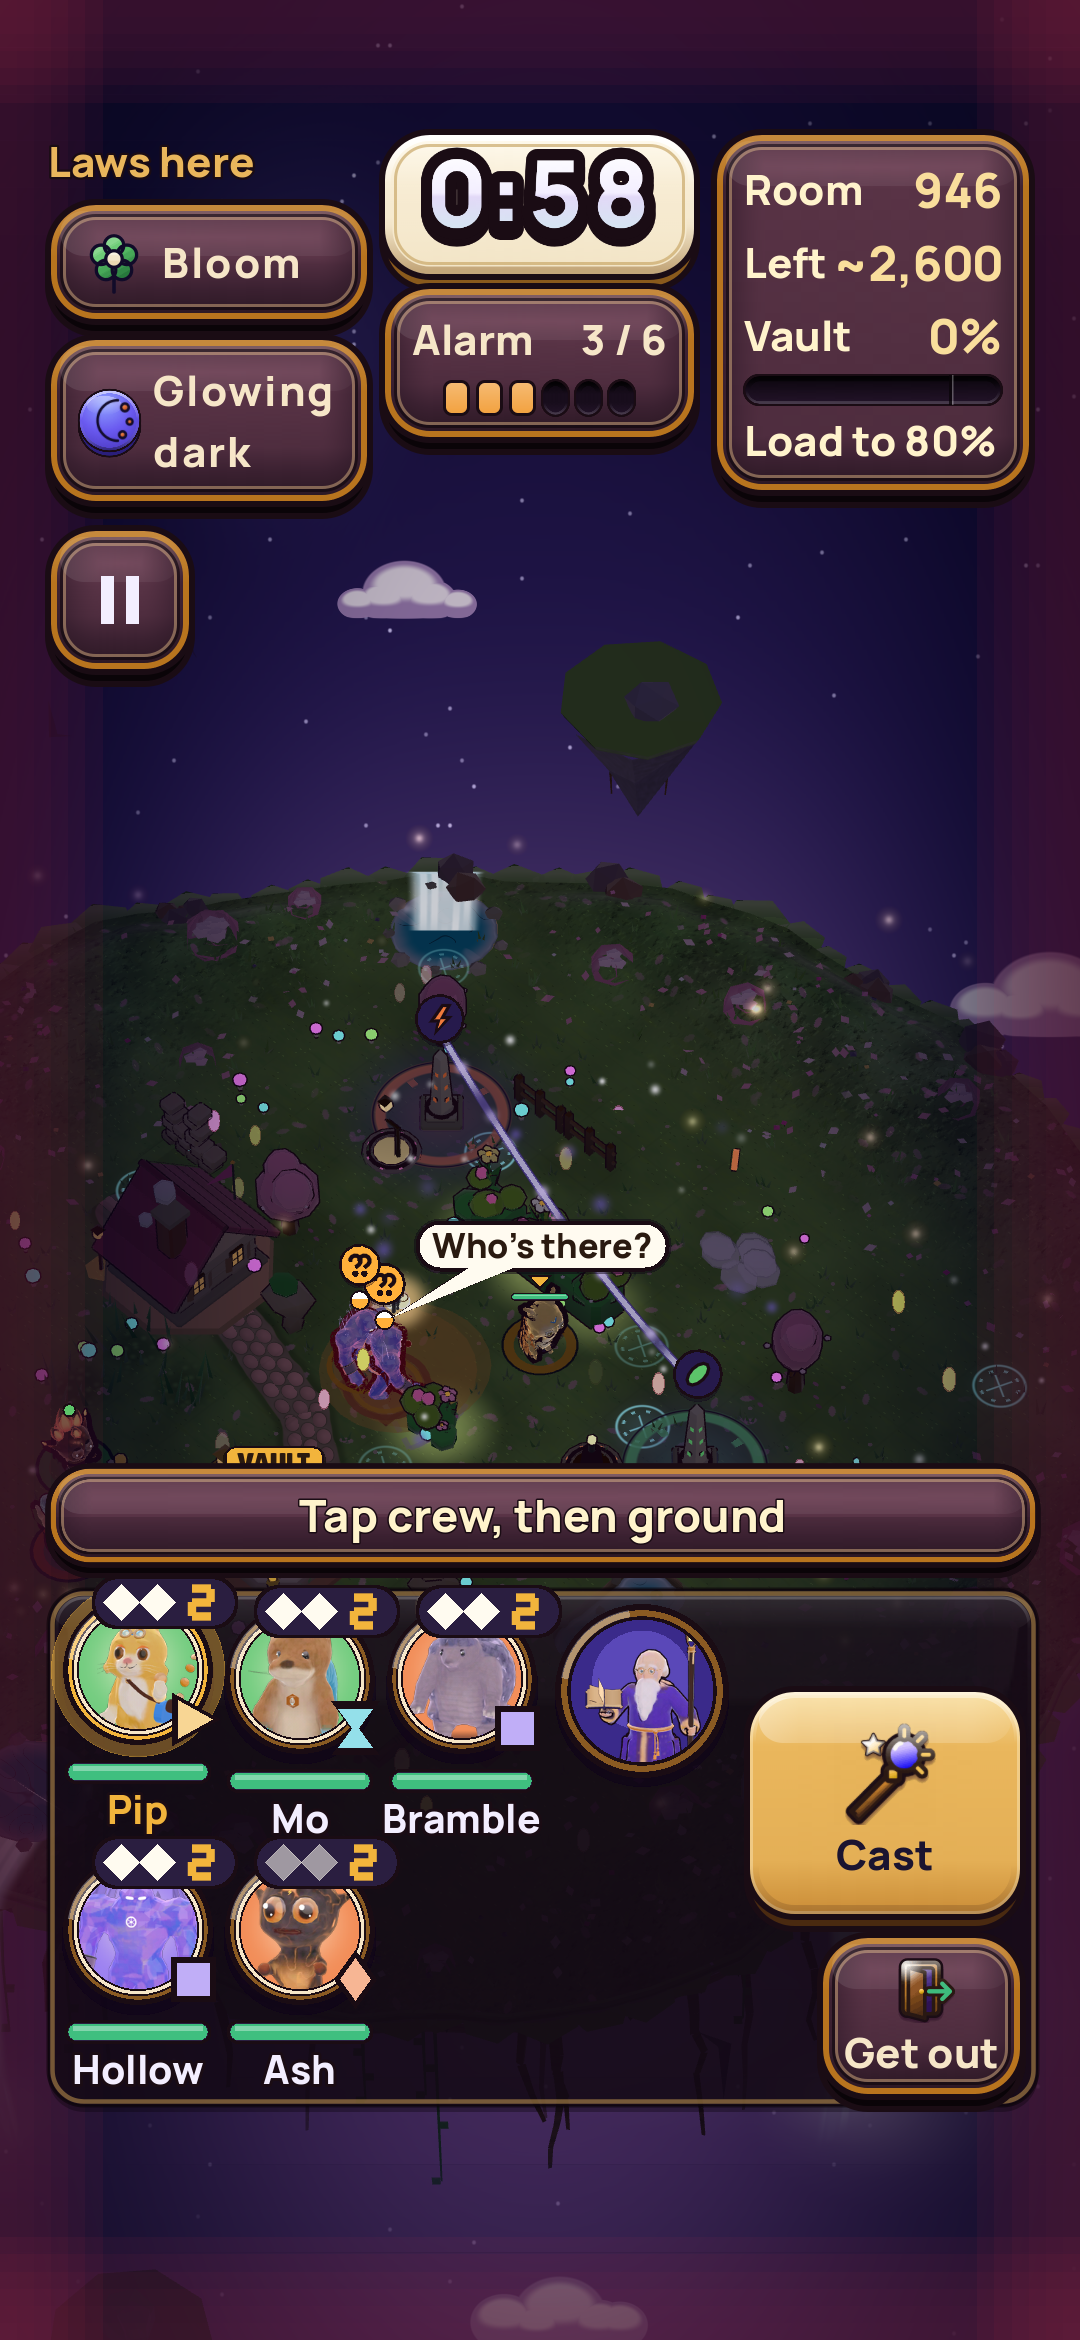
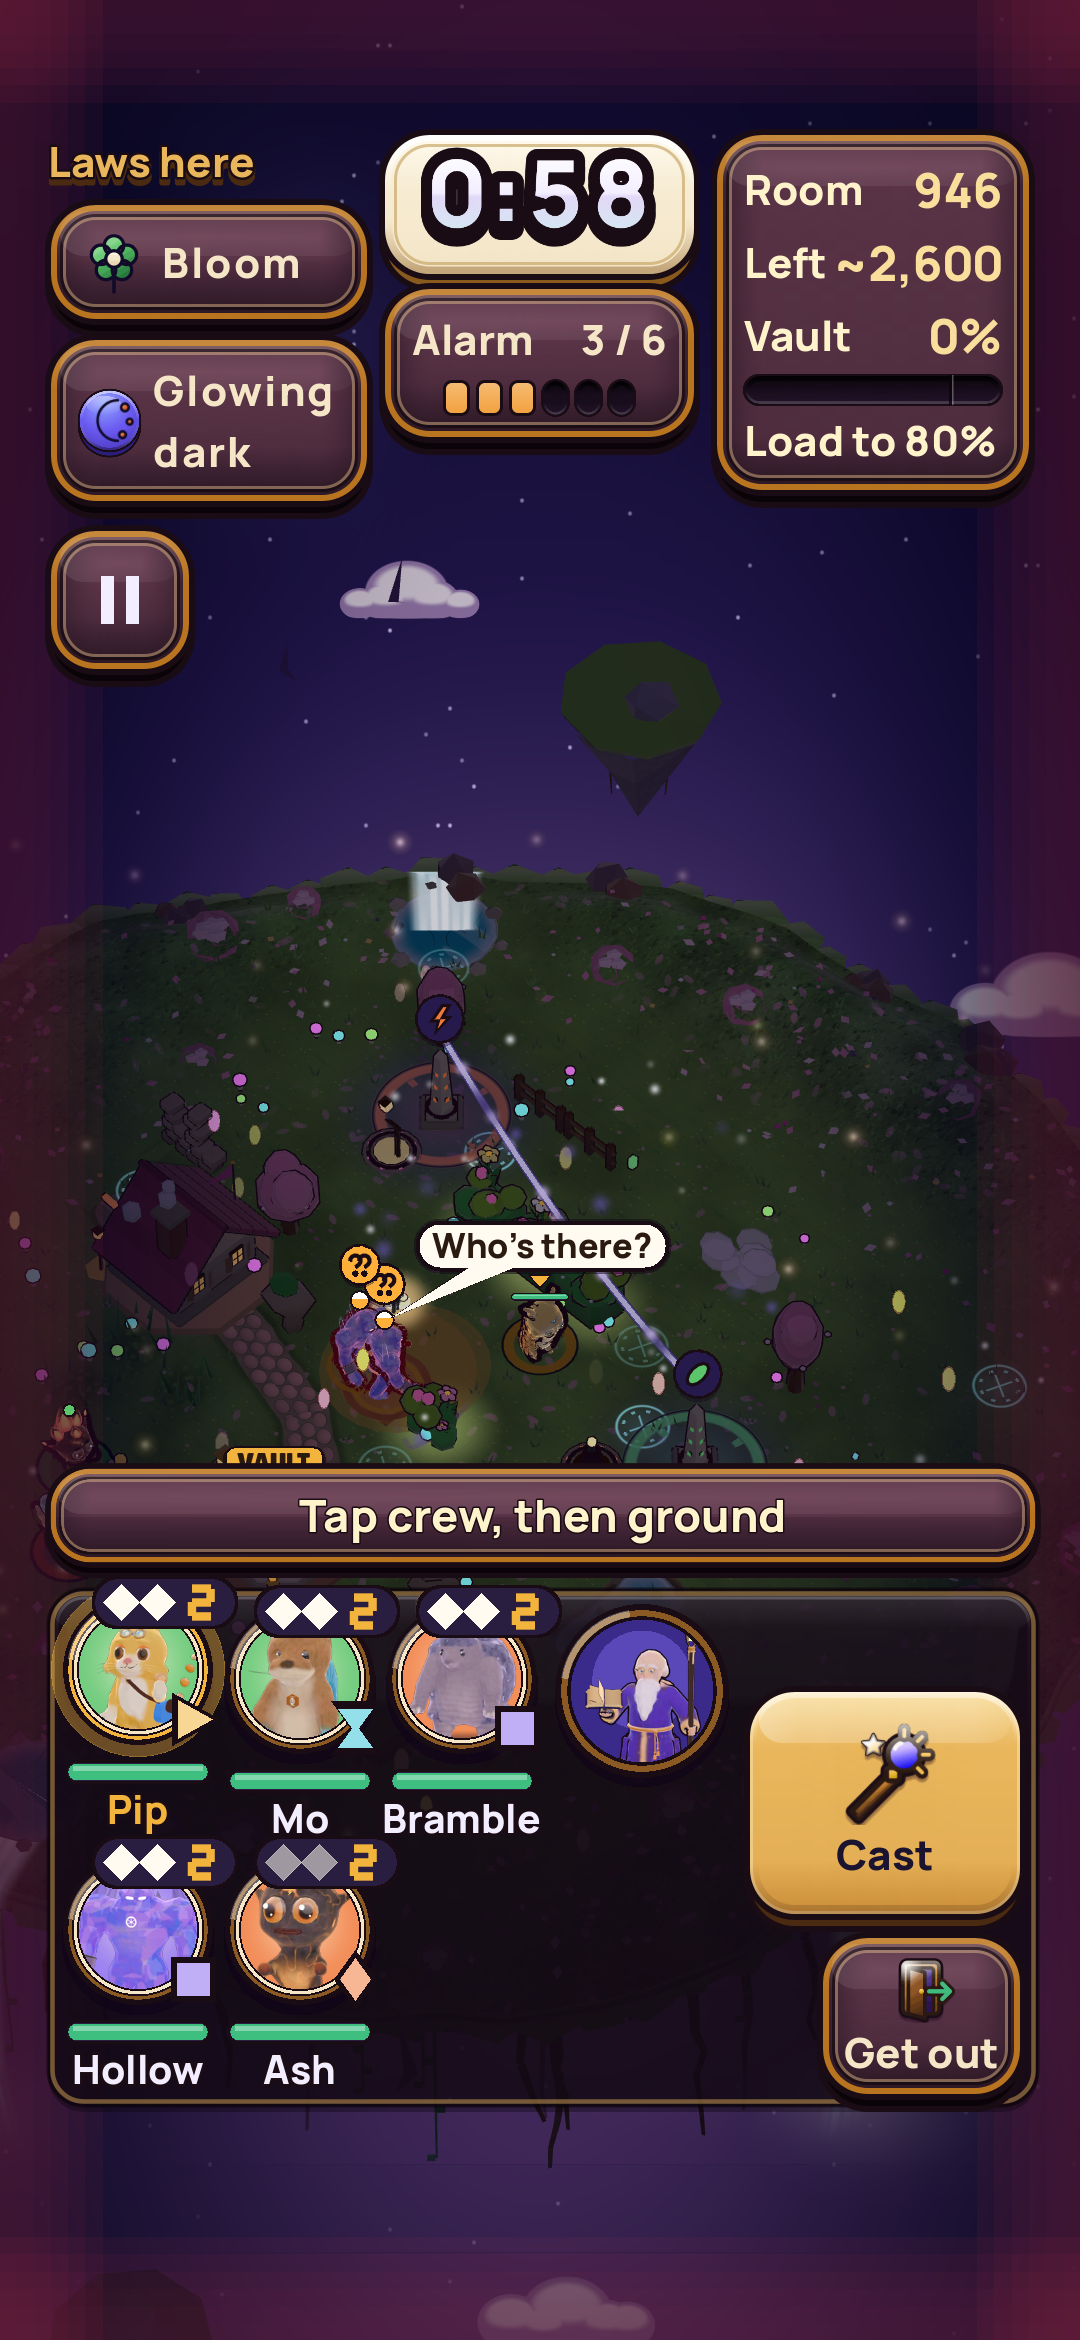
P1-K1-numerals-on: the heist's stills with the header's display stroke; the handoff
The three stills are rebaked at 100% text with 'Laws here' in its ink
outline and gold drop (AD-R14). The handoff names the raised records
(K1-R18, M9), K1-R17's two granted changes and the FIT run at ca66fe67.

Claude-Session: https://claude.ai/code/session_01SNkKxqEuMj3TF1SQMhjHgP

diff --git a/docs/progress/K1.md b/docs/progress/K1.md
@@ -28,7 +28,7 @@
 | P1-K1-numerals-on: the numerals' switch on (`"numerals": true`), the screens within their draw-call records, the gate's Display type note on pilot-3 | 1 | Working (10bbf1d9) | ui_kit_tests 21 of 21 pass (`tests/shots/ui_kit_only.gd`); `screen_heist.gd` FIT=1 at 200% text: fit ok in en and pt_BR, sneak and alarm, normal and high contrast (8 of 8); gdlint passes; guard.sh OK, every record unchanged; pre-check FAIL at f760dedf, 403 of 404 (K1-R17) |
 
 ## Handoff
-- Last verified commit: 10bbf1d9 (P1-K1-numerals-on; ui_kit_tests 21 of 21 pass; `screen_heist.gd` FIT=1 8 of 8 fit ok; guard.sh and the pre-check below).
+- Last verified commit: the head this handoff is committed at (P1-K1-numerals-on; its sha, `bash tools/ui_bake/guard.sh` and the pre-check are in `docs/progress/status/K1.json`, `precheck` and `gate_request`). Before it: pre-check PASS at ca66fe67 (2026-11-12T07:42:13Z, All checks passed), K1-R17's two changes with the drop; ui_kit_tests 21 of 21 pass.
 - The change (done_when 1): `client/ui/kit_families.json` gains the one line `"numerals": true`, after `"spinner": true`. No family or skin changes.
 - **S1-R11, answered:** the switch is on. `KitNumerals.make` now draws the baked `num_<finish>_<glyph>` pieces wherever every glyph's piece is in the atlas, and the heist's timer (`heist_hud.gd` `_build_clock`, on `KitHud.clock_large`) draws the `num_timer` figures, `num_timer_red` when late. Board 1's objection A can be judged on the stills below.
 - **K1-R11, answered:** its condition is met (P1-AIA-kit-3's numerals passed Display type and Colour roles, 3 of 3), so the switch is added as K1-R11's answer said. `docs/art/ui-quality/kit-spec.md` section 6.7 says the `numerals` switch is on since 12 November 2026; section 9 has the dated line.
@@ -36,15 +36,15 @@
   - `docs/art/shots/ui-bake/heist-numerals-sneak-100.png` (2:25)
   - `docs/art/shots/ui-bake/heist-numerals-alarm-100.png` (0:58, red)
   - `docs/art/shots/ui-bake/heist-numerals-alarm-hc-100.png` (high contrast)
-- The same verdict's note on "Laws here" (its ink outline) is S1's screen, not a kit file: `UI.world_words` (P1-K1-heist-kit) gives words on the world an outline that counts.
+- The same verdict's note on "Laws here" (its ink outline), AD-R14, **answered** under K1-R17's grant (M8): `heist_hud.gd` draws the 'Laws here' / 'Leis aqui' header with the kit's display stroke (kit-spec.md section 2.2, T2), the ink outline at 3.5 points (`UI.world_words` gave 3) and a hard `gold_drop` drop 2 points under it with its own 3.5-point outline, as `KitNav.logo` wears them. The ink alone is lost on the night sky at a still's size; with the drop the word stands off it. The three stills above are rebaked with it.
 - Tests (not loosened): `client/tests/ui_kit_tests.gd` holds the shipped switch, `BESIDE_ON := ["numerals"]` among the switches that must be on; the numerals test switches it off for its run, so the live-text path is tested as well as the baked one.
-- FIT (done_when 3), `client/tests/shots/screen_heist.gd` with FIT=1 TEXT=200 MANIFEST=1 ESTIMATE=2600 LAWS=bloom,glowing_dark: fit ok in all 8 cases (en and pt_BR, sneak and alarm, normal and high contrast); 138 draw calls at sneak, 141 at alarm (limit 150).
+- FIT (done_when 4), at 10bbf1d9, `client/tests/shots/screen_heist.gd` with FIT=1 TEXT=200 MANIFEST=1 ESTIMATE=2600 LAWS=bloom,glowing_dark: fit ok in all 8 cases (en and pt_BR, sneak and alarm, normal and high contrast); 138 draw calls at sneak, 141 at alarm (limit 150). Again at ca66fe67 (the header's drop, the clock's words hidden), FIT=1 TEXT=200 MANIFEST=1: fit ok in all 8 cases, 134 draw calls at sneak, 135 at alarm.
 - Found, not this task's (S1's heist layout): on the bare island (no MANIFEST), pt_BR at 200% text fails FIT, "Loot [P: (48,625), S: (984,506)] over the tray [P: (48,960), S: (984,1146)]". It fails the same with the switch off, at S1's ready 0d142dd0 and at a7a967bb, so the switch does not cause it. To reproduce: `MOMENT=sneak TEXT=200 LOCALE=pt_BR FIT=1 bash tools/render/shoot.sh client/tests/shots/screen_heist.gd out.png`. en and high contrast at 200% on the bare island pass (114 and 116 draw calls).
-- Draw-call records (done_when 2): only `heist_hud.gd` calls KitNumerals; no record moves. `bash tools/ui_bake/guard.sh` at 10bbf1d9: `ui guard: OK`, every still rebaked byte for byte, `check_screens: OK`, every screen equal to its recorded figure; heist 118/114/118 draw calls at 100%, 200% and high contrast (recorded 118/114/118, limit 150). A baked number is one canvas item in the art's layer, so it batches with the atlas and adds no call.
-- **Pre-check FAIL at f760dedf** (2026-11-12T06:10:25Z), 403 of 404, the one failure: `a11y_tests.gd` "every word reads against what is behind it": `"2:30" (…/Clock/Time in the kit's parchment) is 2.06:1 Lc 11 on #1a0c14, needs 4.5:1 Lc 60 at 26 points bold`, on heist_screen and replay_screen, normal and high contrast. The cause: with the switch on, `heist_hud.gd` `_figures` (S1's, P1-S1-pilot-3) keeps the live words behind the baked figures at `self_modulate.a = 0` with their canvas item hidden from the renderer; the test skips only words not `is_visible_in_tree()`, so it measures them faded to nothing. S1's pilot-3 ran guard and FIT with the switch on, not check_all.
-- **K1-R17** (to the lead, blocking): grant `client/scripts/heist_hud.gd` for one change, or route it to S1. The change, in `_figures`: the two lines `clock_label.self_modulate.a = 0.0` and `RenderingServer.canvas_item_set_visible(clock_label.get_canvas_item(), false)` (and their comment) become `clock_label.visible = false`. The Figures row then sizes the plate and carries the spoken name (`KitNumerals.make` sets `accessibility_name`); `clock_label.text` still updates, which `heist_fx_tests.gd` reads. No test changes. Tried locally and reverted (nothing committed): `tests/shots/ui_a11y.gd` 0 failed, test 23 ok; `screen_heist.gd` FIT=1 fit ok at sneak and alarm, 100%, 200% and high contrast; draw calls 118/114/118 at sneak, equal to the records (alarm 120/116/120). Default: K1 does not edit the file and the task stays blocked at f760dedf.
+- Draw-call records (done_when 3): only `heist_hud.gd` calls KitNumerals, and a baked number is one canvas item in the art's layer, so it batches with the atlas and adds no call. **One record moves, named here:** heist/100, heist/200 and heist/hc rise by 2, from 118/114/118 to 120/116/120 (cap 150), logged in `tools/ui_bake/budgets.json` `raises`. The reason: the header's drop (AD-R14) is the label's shadow pass, 2 draw calls (one without its own outline, but that drop is too weak to read). Requested as K1-R18, approved by the lead in cycle 61 (M9). Textures unchanged; contrast unchanged (0 words below 4.5:1, worst 6.17, 6.43 and 5.55). Nothing else in the records moves.
+- **The pre-check's one failure at f760dedf, fixed** (403 of 404 then): `a11y_tests.gd` "every word reads against what is behind it" read the clock's live words "2:30" at 2.06:1, because `_figures` hid them with `self_modulate.a = 0` and a hidden canvas item, which the test cannot see (it skips only words not `is_visible_in_tree()`). Pre-check PASS at ca66fe67 after the change below.
+- **K1-R17, granted** (M8): `client/scripts/heist_hud.gd` is this task's exception for two changes only, and only those are made (done_when 2). (1) In `_figures`, `clock_label.self_modulate.a = 0.0` and `RenderingServer.canvas_item_set_visible(...)` became `clock_label.visible = false`; the Figures row sizes the plate and carries the spoken name, and `clock_label.text` still updates (`heist_fx_tests.gd` reads it). (2) The header's stroke above. No test changed.
 - AIA-R22: answered with its default (no tiled grain), in the status file.
-- Next step: on K1-R17's answer, the change above (or S1's), `python3 client/status.py` or the pre-check (`bash tools/run_checks.sh start`, `wait`, `record <sha> K1`), then `gate_request` for "heist at 100% text", Display type. On a resync: merge main, `$GODOT --headless --path client --import`, `bash tools/ui_bake/guard.sh`.
+- Next step: `gate_request` for "heist at 100% text", Display type, switch on, at the head in the status file once guard.sh and the pre-check pass there; ready only when the gate passes. On a resync: merge main, `$GODOT --headless --path client --import`, `bash tools/ui_bake/guard.sh`.
 - Earlier: P1-K1-heist-kit (merged at 096132b9), last verified commit: e1cee5c1 (P1-K1-heist-kit; pre-check PASS 2026-11-11T22:20:56Z at e1cee5c1, All checks passed; `bash tools/ui_bake/guard.sh`: `ui guard: OK`, heist 120/115/120 draw calls at 100%, 200% and high contrast (cap 147; recorded 121/115/121), every still rebaked byte for byte, run at 7ceb0f37, and the commits up to the ready one add only the catalogue pages and progress files).
 - Ready (P1-K1-heist-kit, merged at 096132b9): at e1cee5c1. Every new call is additive (kit-spec.md section 6.5: a new function, or a new optional parameter at the end); no existing call changes its signature or its look. `KitHud.meter`, `clock`, `alarm` and `loot` gained only node names and metas (`Bells`, `Count`, `Caption`; `lit`, `alarmed`, `of`, `words`, `numbers`), which the update calls read.
 - S1's requests, one by one:
